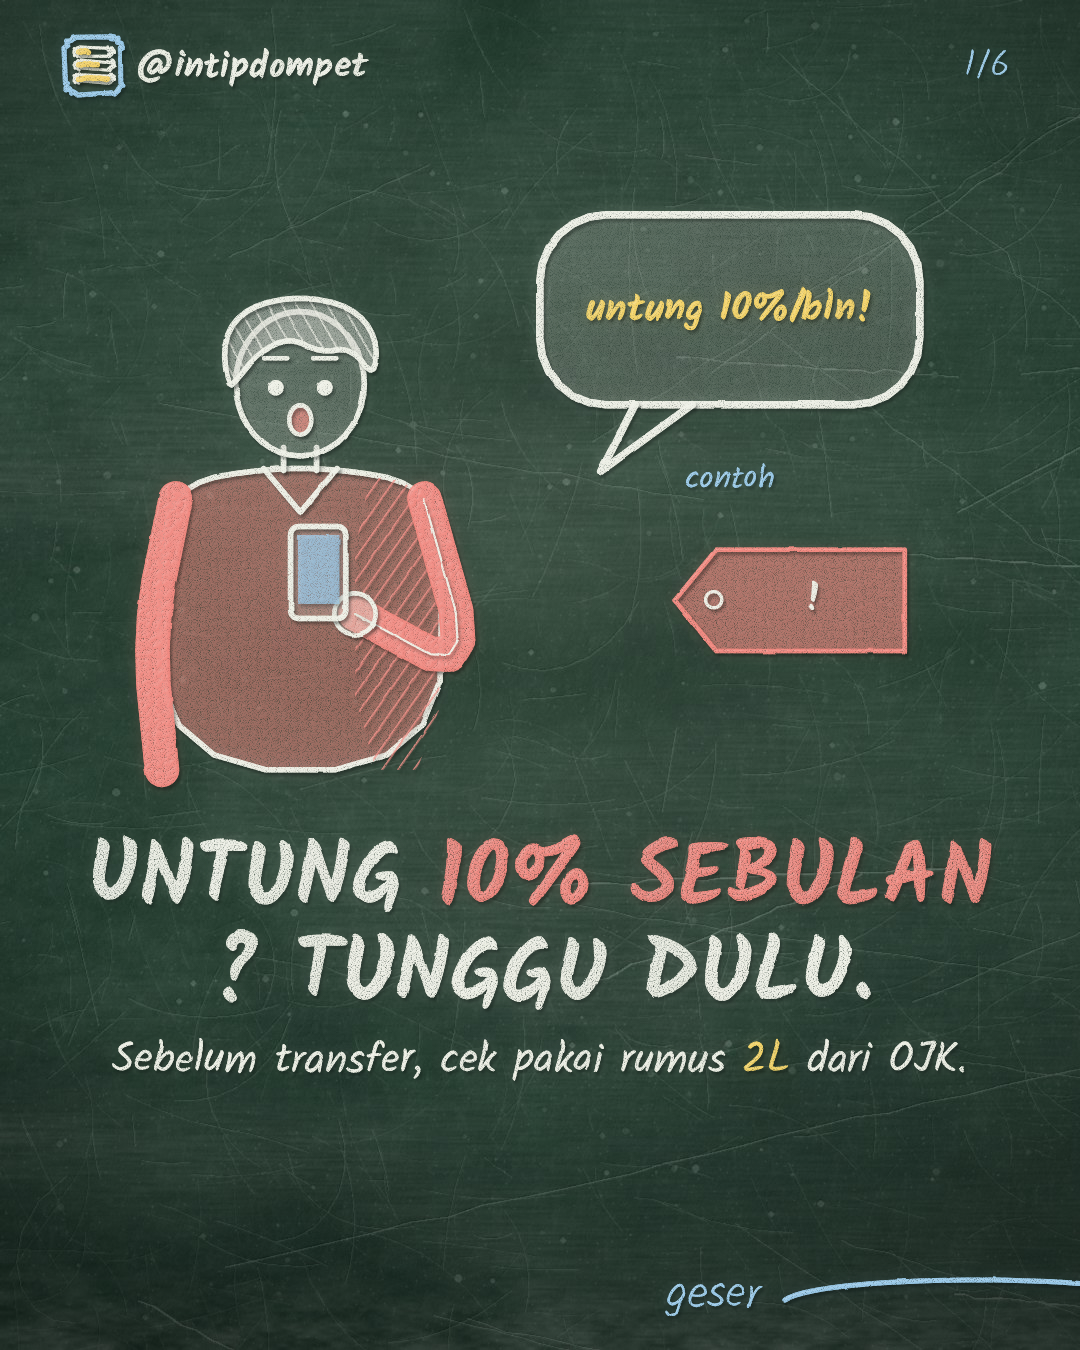
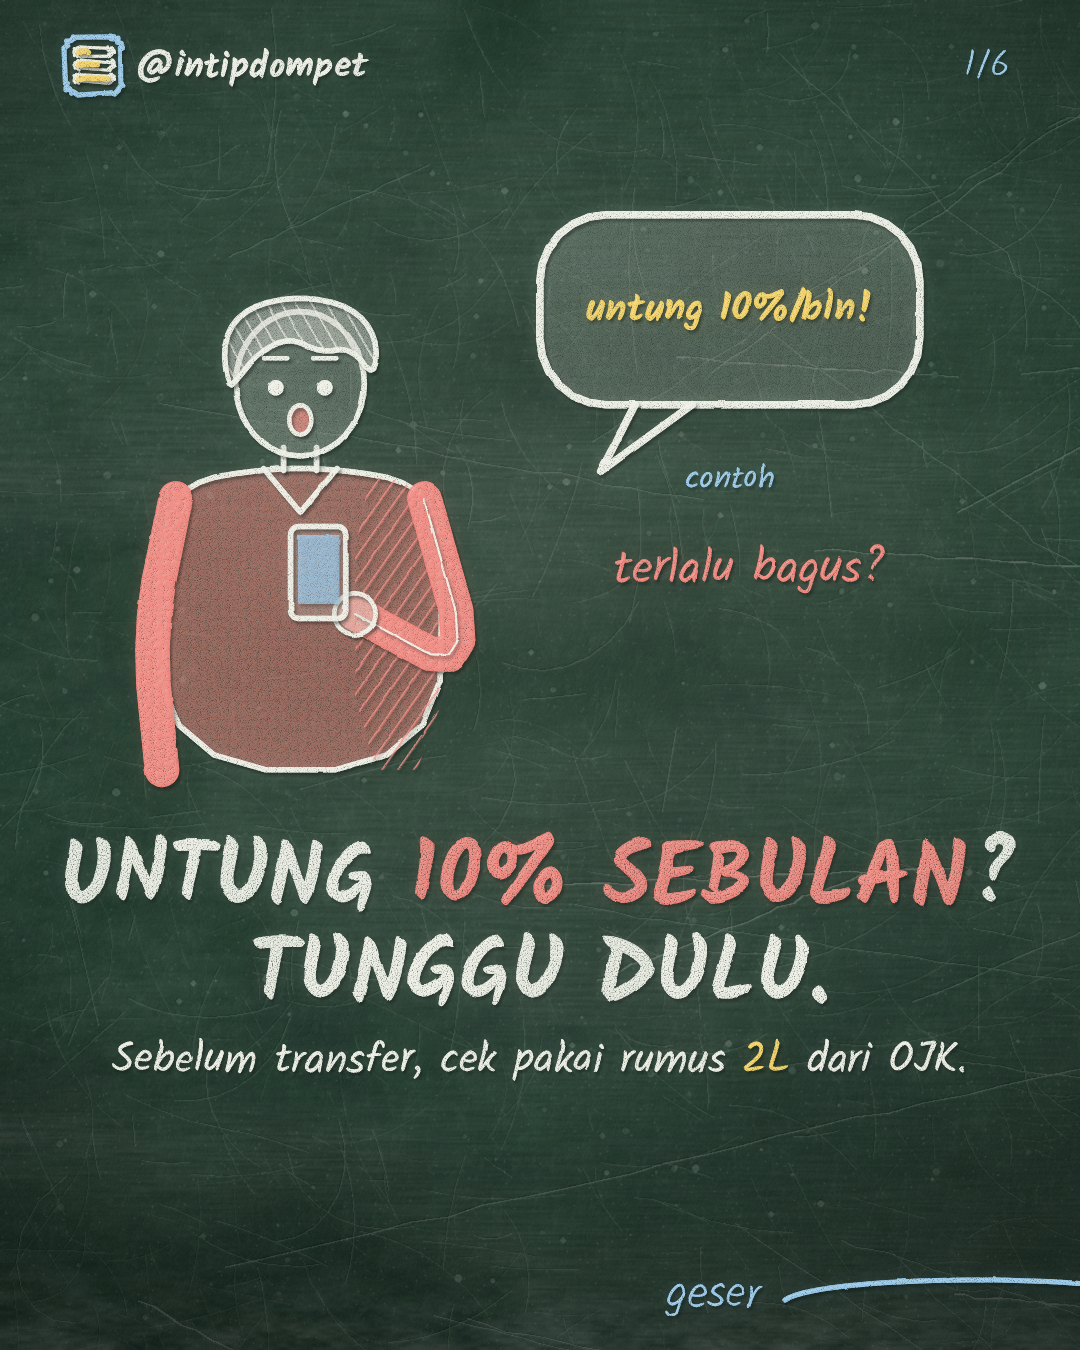
Carousel: tanda baca tidak pindah sendirian ke baris baru; perbaikan adegan investasi bodong; batch dirender ulang
Claude-Session: https://claude.ai/code/session_01KMbroAGncEDBsqPKKLLpNR

Changed region(s): [[0.0611, 0.5911, 0.9472, 0.7467], [0.55, 0.4044, 0.8556, 0.4978]]

diff --git a/src/papan/Carousel.tsx b/src/papan/Carousel.tsx
@@ -75,7 +75,9 @@ const bungkusWarna = (teks: string, ukuran: number, gaya: Gaya, lebar: number, d
   for (const p of potong) {
     const spasi = /^\s+$/.test(p.t);
     const lp = ukurLebar(p.t, ukuran, gaya);
-    if (!spasi && w + lp > lebar && baris[baris.length - 1].length) {
+    // tanda baca yang menempel ke kata sebelumnya ("{10% sebulan}?") tidak boleh pindah sendirian ke baris baru
+    const tandaBaca = /^[?!.,:;)]+$/.test(p.t);
+    if (!spasi && !tandaBaca && w + lp > lebar && baris[baris.length - 1].length) {
       const b = baris[baris.length - 1];
       while (b.length && /^\s+$/.test(b[b.length - 1].t)) b.pop();
       baris.push([]);
